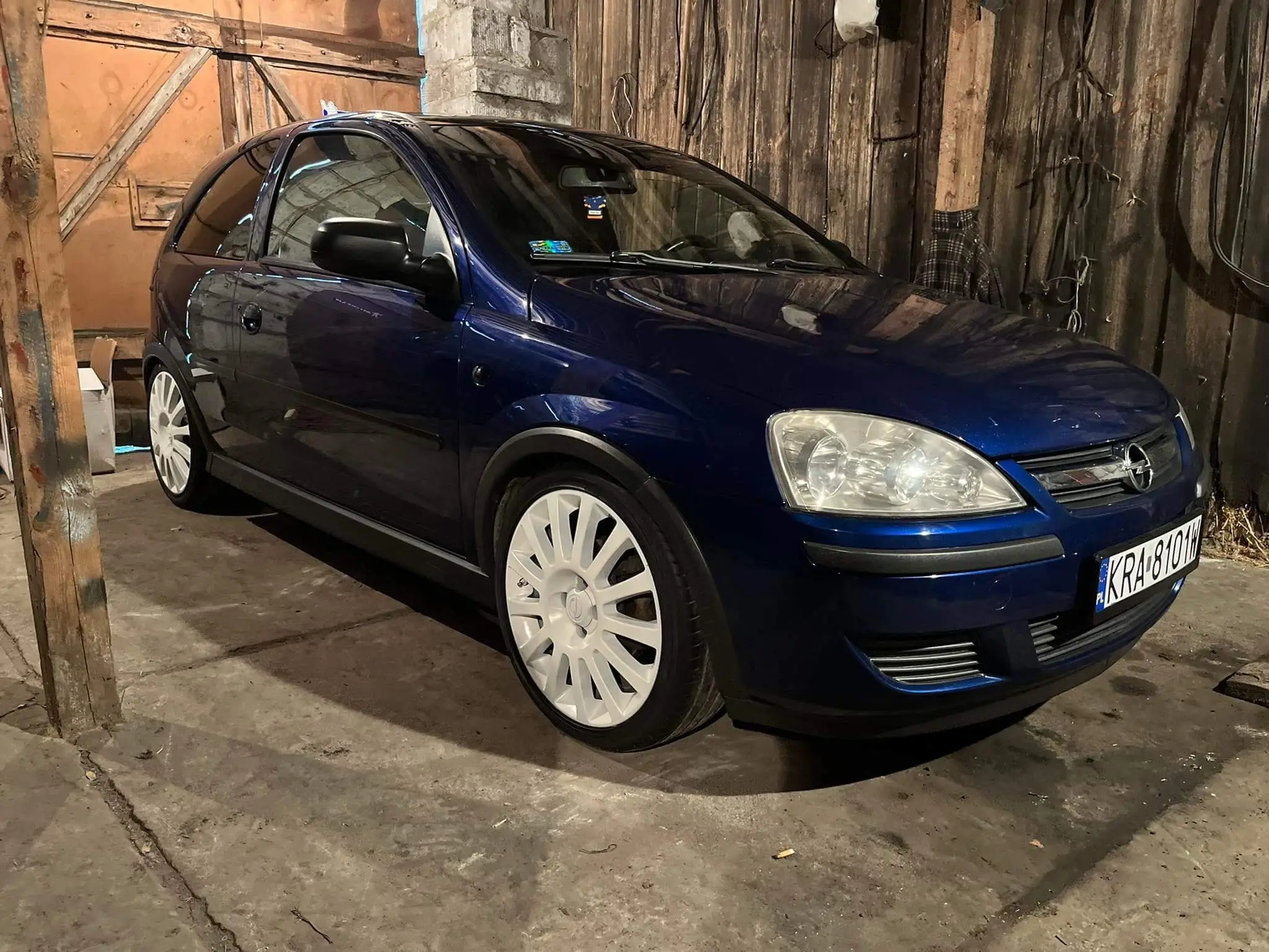
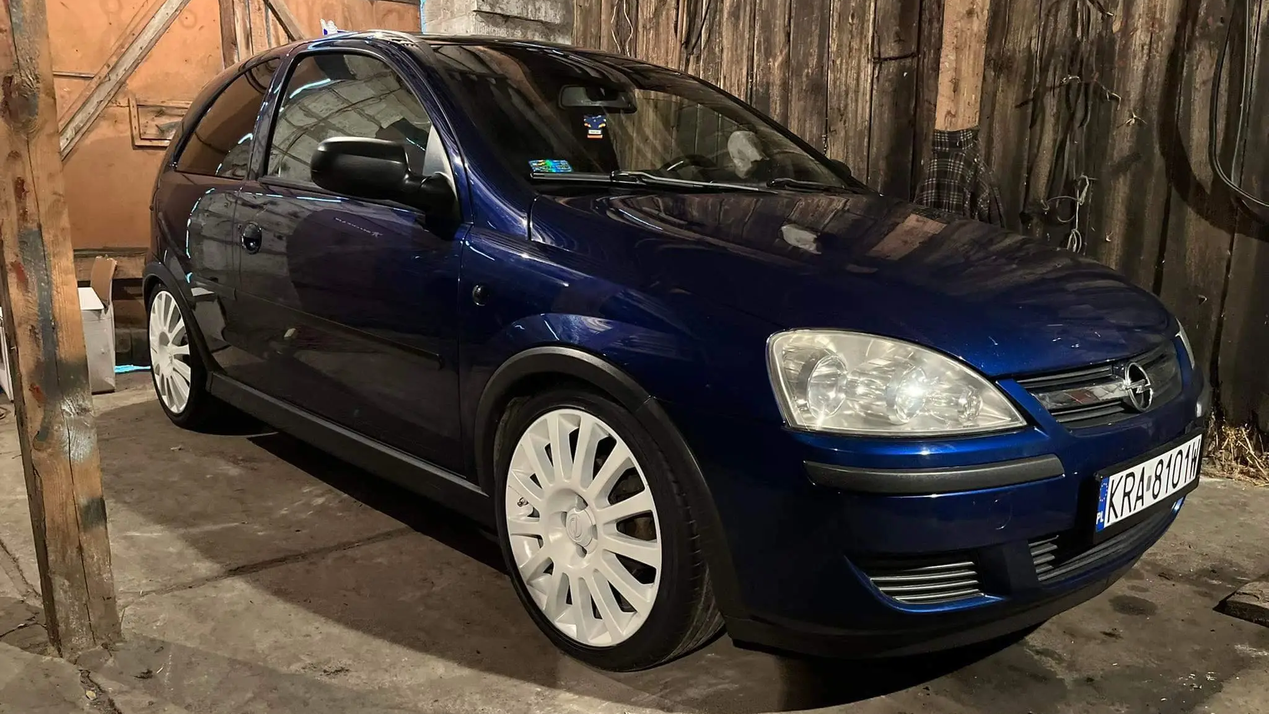
prevent selecting

diff --git a/css/style.css b/css/style.css
@@ -227,6 +227,7 @@ a:hover {
     display: grid;
     justify-items: center;
     justify-content: center;
+    user-select: none;
 }
 
 .gallery h2 {
@@ -327,6 +328,7 @@ a:hover {
 
 .gallery .zoom-images img {
     width: 1400px;
+    max-height: 900px;
     margin-top: 100px;
 }
 
